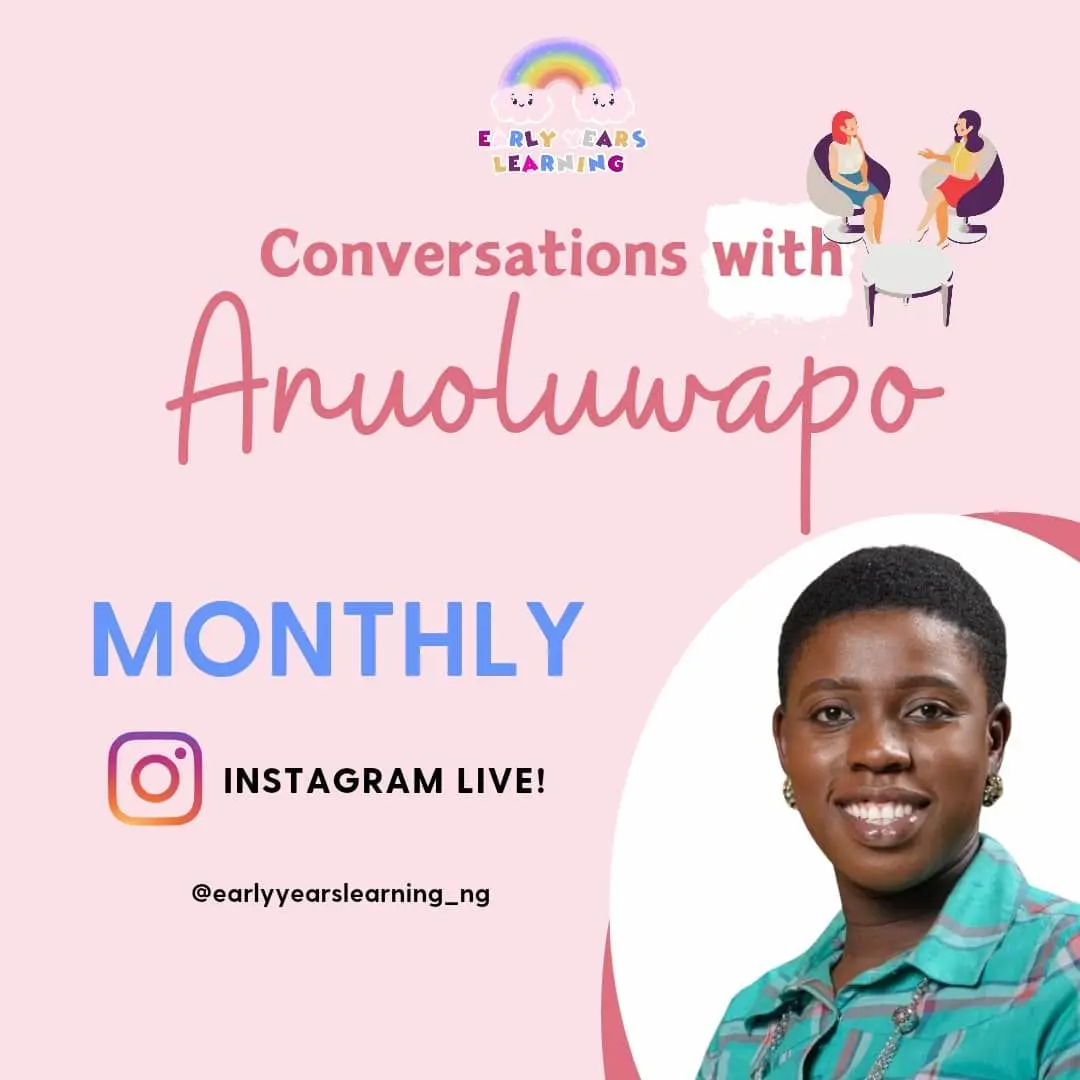
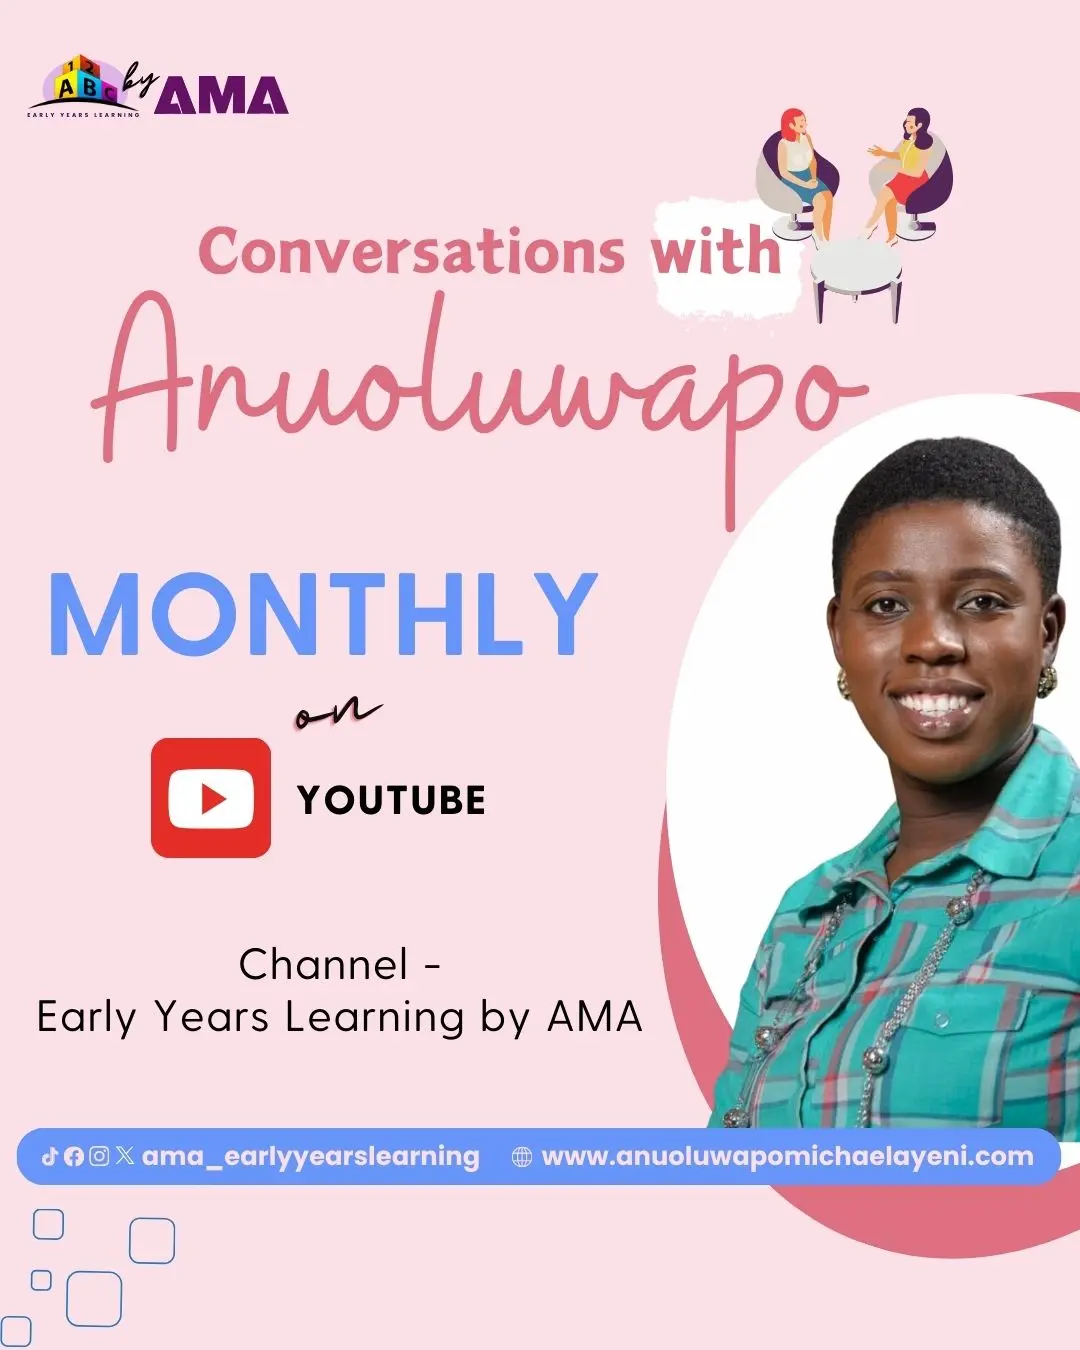
new anu's changes

diff --git a/src/app/(others)/early-years/_components/data.ts b/src/app/(others)/early-years/_components/data.ts
@@ -1,0 +1,73 @@
+import {
+  Conversations,
+  PrivateTutor,
+  PhonicsAndReading,
+  PhonicsIntervention,
+  ElocutionCourse,
+  ReadingIntervention,
+} from "@/assets";
+
+const whatsappLink = "https://wa.me/07033379771";
+export const data = [
+  {
+    title: "One-to-One Elocution Course for Educators",
+    img: ElocutionCourse,
+    info: [
+      "To improve your speaking skills from Fluency to Eloquence, sign up for our one-to-one elocution course for a 4 weeks practical class. You will learn to properly produce the British English sounds and enunciate words correctly. A certificate will be awarded after the completion of the course.",
+    ],
+    buttonText: "Register",
+    buttonLink:
+      "https://docs.google.com/forms/d/e/1FAIpQLSfVDZllIGMYqPukXU_lRiVlXzXz6wsVIQyuNhTVNDJ2JUS8VQ/viewform",
+    tag: "Training",
+  },
+  {
+    title: "Conversations With Anuoluwapo",
+    img: Conversations,
+    info: [
+      "Watch new episodes of Conversations with Anuoluwapo every second Saturday of the month on YouTube as I discuss topical issues relating to early childhood care and education.",
+    ],
+    buttonText: "Watch Replays",
+    buttonLink: "https://youtube.com/@earlyyearslearningtv",
+    tag: "YouTube",
+  },
+  {
+    title: "Phonics and Reading Club",
+    img: PhonicsAndReading,
+    info: [
+      "Register your child/(ren) for our Phonics and Reading Club, holding every Saturday from 5pm - 6pm (WAT). Children will be taken through the rudiments of reading fluency, correct enunciation of words, creative writing using a variety of picture prompts to create their own detailed stories and instructional texts etc.",
+    ],
+    buttonText: "Register",
+    buttonLink: whatsappLink,
+    tag: "Book Club",
+  },
+  {
+    title: "Phonics and Reading Intervention for Children",
+    img: PhonicsIntervention,
+    info: [
+      "Children below age 12 who require specific reading support can sign up for our one-to-one reading intervention class for personalized support to aid their reading and spelling skills. Classes are scheduled as required by parents/learners.",
+    ],
+    buttonText: "Register",
+    buttonLink: whatsappLink,
+    tag: "Intervention",
+  },
+  {
+    title: "Reading Intervention for Teens and Adults",
+    img: ReadingIntervention,
+    info: [
+      "Teenagers and Adults with specific reading challenges can sign up for our one-to-one reading intervention class for personalized support to aid their reading and writing skills. They will also have access to a range of resources and tasks. Classes are scheduled as required by parents/learners.",
+    ],
+    buttonText: "Register",
+    buttonLink: whatsappLink,
+    tag: "Intervention",
+  },
+  {
+    title: "Book a Private Tutoring Session",
+    img: PrivateTutor,
+    info: [
+      "We offer home and online lessons to children aged 3 - 7 years old (Early Years and Key stage 1) We have a number of expert tutors who will deliver age appropriate lessons to meet specific needs of individual learners. Tutoring days and time are scheduled as required by parents.",
+    ],
+    buttonText: "Register",
+    buttonLink: whatsappLink,
+    tag: "Tutoring",
+  },
+];

diff --git a/src/app/(others)/services/courses/page.tsx b/src/app/(others)/services/courses/page.tsx
@@ -11,13 +11,20 @@ const courses = [
     img: Course1,
     title: "Teach Your Child to Read From Age 3",
     info: "This course is for parents who want to learn to support their children in developing reading skills/reading fluently.",
+    courseOutline: [
+      "Phonic Terminologies Explained.",
+      "Phonic sounds/Segmenting and Blending.",
+      "Engaging Activities to teach sounds.",
+      "Teaching Sight words and Writing.",
+    ],
     details: [
       "Phonics video course.",
       "30 days reading activity calendar.",
       "Phonics digital resources.",
       "2 one on one consultations.",
+      "Certificate of completion",
     ],
-    price: 12.0,
+    price: "10,000",
   },
   {
     img: Course2,
@@ -28,8 +35,36 @@ const courses = [
       "Resources.",
       "Phonics digital resources.",
       "One on one consultations.",
+      "Certificate of completion",
     ],
-    price: 12.0,
+    courseOutline: [
+      "Developing Phonemic Awareness",
+      "Letters and Sounds/Jolly Phonics Programs",
+      "Teaching Spelling and Writing.",
+      "Engaging Activities to Teach Sight Words.",
+    ],
+    price: "10,000",
+  },
+  {
+    img: Course3,
+    title: "The EYFS Teacher Course",
+    info: "This course is for new, intending or current teachers, school leaders , consultants etc. who would like to learn about the Early Years Foundation Stage(EYFS) framework and practical ways to infuse the EYFS into their curriculum/classroom.",
+    details: [
+      "Comprehensive EYFS Video Course",
+      "Updated EYFS Statutory Framework and guidance",
+      "2 one on one consultation sessions",
+      "Certificate of completion",
+    ],
+    courseOutline: [
+      "Understanding the EYFS framework.",
+      "Observation and Assessment in the Early Years.",
+      "Classroom Management Practices.",
+      "Child Protection and Safeguarding.",
+      "Positioning for Career Acceleration.",
+      "Working with parents and other Stakeholders",
+      "Lesson Planning and Engagement in the 7 Areas of Learning.",
+    ],
+    price: "30,000",
   },
 ];
 
@@ -79,10 +114,22 @@ const CoursesPage = () => {
                   </li>
                 ))}
               </ul>
+              <p className="mt-2">Course Outline:</p>
+              <ul className="!leading-[18px]">
+                {course.courseOutline.map((item, index) => (
+                  <li
+                    key={index}
+                    className="before:content-['']  before:w-1 before:h-1 before:bg-black before:block before:rounded-full flex items-center before:mr-2"
+                  >
+                    {item}
+                  </li>
+                ))}
+              </ul>
             </div>
             <div className="flex w-full justify-between absolute bottom-8 px-3 border-t pt-6">
               <Button text="Take Course" href="/construction" />
-              <b>$ 12.00</b>
+              <b>₦ {course.price}</b>
+              {/* <b>₦ {course.price.toFixed(2)}</b> */}
             </div>
           </li>
         ))}

diff --git a/src/app/(others)/services/_components/TargetAudience.tsx b/src/app/(others)/services/_components/TargetAudience.tsx
@@ -13,17 +13,17 @@ const data = [
   {
     img: Parents,
     lead: "Parents",
-    text: "Parents of children in the Early Years and/or Key Stage 1 can sign up for any of our courses for parents or book a consultation to seek professional advice regarding the learning and development of their early learners. They  can also access our learning tips and activities shared via blog posts or on our YouTube Channel.",
+    text: "Parents of children in the Early Years and/or Key Stage 1 can sign up for any of our courses, register their children for our classes or book a consultation to seek professional advice regarding the learning and development of their early learners. They can also access our learning tips and activities shared via blog posts or on our YouTube Channel.",
   },
   {
     img: EYFS_Practitioners,
-    lead: "Early Years Practitioners",
-    text: "Teachers, Teaching Assistant, support teachers or any one who works with children can sign up for any of our continuous professional development courses or book a mentorship session where they will be appropriately supported and equipped to become successful early years practitioners. They can also learn from our helpful tips, activities and ideas shared via blogposts.",
+    lead: "Educators",
+    text: "Teachers, Teaching Assistant, support teachers or any one who works with children can sign up for any of our Continuous Professional Development courses or book a mentorship session where they will be appropriately supported and equipped to become successful practitioners. They can also learn from our helpful tips, activities and ideas shared via blogposts.",
   },
   {
     img: EYFS_Leaders,
-    lead: "Early Years Leaders",
-    text: "School leaders, administrators, Curriculum leads or aspiring leaders who wish to improve their knowledge of the EYFS framework/Early childhood practices, update their knowledge and skills, and learn more about ways to offer support to their staff can sign up for our  Leadership courses. They can also access our blog posts, book us for in-house or virtual trainings for their teachers or for parents seminar in their schools.",
+    lead: "School Leaders",
+    text: "School leaders, administrators, curriculum leads or aspiring leaders who wish to improve their knowledge of the EYFS framework/Early childhood practices, update their knowledge and skills, and learn more about ways to offer support to their staff can sign up for our Leadership courses. They can also access our blog posts, book us for in-house or virtual trainings for their teachers or for parents seminar in their schools or sign up for one of our consultation packages.",
   },
   {
     img: Nannies,

diff --git a/src/app/(others)/services/training-and-consultation/_components/ForSchools.tsx b/src/app/(others)/services/training-and-consultation/_components/ForSchools.tsx
@@ -11,12 +11,13 @@ const ForSchools = () => {
     "Lesson Planning and Engagement in the 7 Areas of EYFS",
     "Early Years Phonics/Effective strategies for Teaching Reading (Jolly Phonics/ Letters and Sounds)",
     "Observation and Assessment Tools in the Early Years",
-    "Learning Through Play Working with Parents as Partners",
+    "Play-based Learning",
+    "Working with Parents as Partners",
     "Behavior Management in the Early Years",
     "Nelson Handwriting",
     "Differentiation in Practice",
     "Special Educational Needs",
-    "Diction and Phonetics for Teachers",
+    "Diction and Phonetics for Teachers (Elocution)",
     "Child Protection and Safeguarding",
   ];
 
@@ -119,11 +120,11 @@ const ForSchools = () => {
             ))}
           </ul>
           <p className="mb-10">
-            Click on the button below to request for my brand portfolio for
-            schools.
+            Click on the button below to request for school consultation
+            proposal.
           </p>
           <Button
-            text="Brand Portfolio"
+            text="Get Consultation Proposal"
             href="https://docs.google.com/forms/d/e/1FAIpQLSdv4wnWirrPM80YAFZ9EGrfOUEP99LPHX_RmjkAtgQjcrIBLg/viewform"
             target="_blank"
           />

diff --git a/src/assets/index.ts b/src/assets/index.ts
@@ -40,7 +40,11 @@ import Excellence from "@/assets/images/excellence.svg";
 import EarlyYearsLogo from "@/assets/images/early-years-logo.webp";
 import Vision from "@/assets/images/vision.webp";
 import Conversations from "@/assets/images/conversations.webp";
-import EYFS_Bootcamp from "@/assets/images/eyfs-bootcamp.webp";
+import PrivateTutor from "@/assets/images/private_tutor.webp";
+import PhonicsAndReading from "@/assets/images/phonics_and_reading.webp";
+import PhonicsIntervention from "@/assets/images/phonics_intervention.webp";
+import ElocutionCourse from "@/assets/images/elocution_course.webp";
+import ReadingIntervention from "@/assets/images/reading_intervention.webp";
 import Omowunmi from "@/assets/images/omo.webp";
 import NotFound from "@/assets/images/404.webp";
 import Training1 from "@/assets/images/training-1.webp";
@@ -54,6 +58,11 @@ import Ututo from "@/assets/images/utu.webp";
 export {
   Logo_White,
   BG_Colors,
+  PrivateTutor,
+  PhonicsAndReading,
+  PhonicsIntervention,
+  ReadingIntervention,
+  ElocutionCourse,
   Bar_Vert,
   AnuHome,
   Ututo,
@@ -64,7 +73,6 @@ export {
   Training4,
   Training5,
   Conversations,
-  EYFS_Bootcamp,
   Omowunmi,
   Building,
   NotFound,

diff --git a/src/app/(others)/early-years/_components/UpcomingEvents.tsx b/src/app/(others)/early-years/_components/UpcomingEvents.tsx
@@ -1,33 +1,9 @@
-import { EYFS_Bootcamp, Conversations } from "@/assets";
 import Button from "@/components/form/Button";
 import Image from "next/image";
 
+import { data } from "./data";
 import "./UpcomingEvents.scss";
 
-const data = [
-  {
-    title: "The EYFS Teacher Bootcamp",
-    img: EYFS_Bootcamp,
-    info: [
-      "Register for the 6 weeks EYFS teacher training to learn about the EYFS framework, best practices and practical lesson activities to infuse into their school/classroom.",
-    ],
-    buttonText: "Register",
-    buttonLink:
-      "https://docs.google.com/forms/d/e/1FAIpQLSfVDZllIGMYqPukXU_lRiVlXzXz6wsVIQyuNhTVNDJ2JUS8VQ/viewform",
-    tag: "Training",
-  },
-  {
-    title: "Conversations With Anuoluwapo",
-    img: Conversations,
-    info: [
-      "Join me Live on Instagram every second Saturday of the month as I discuss topical issues relating to early childhood care and education.",
-      //   "You can also watch the replay of each episode on my YouTube channel.",
-    ],
-    buttonText: "Watch Replays",
-    buttonLink: "https://youtube.com/@earlyyearslearningtv",
-    tag: "Instagram Live",
-  },
-];
 const UpcomingEvents = () => {
   return (
     <div id="#events">

diff --git a/src/components/layout/Footer.tsx b/src/components/layout/Footer.tsx
@@ -154,9 +154,8 @@ const Footer = () => {
         </div>
         <small className="-mt-10">
           <Link
-            // href="https://michaelayeni.com"
-            href="#"
-            // target="_blank"
+            href="https://michaelayeni.com"
+            target="_blank"
             className="text-black"
           >
             Powered by: The Coding Pastor
